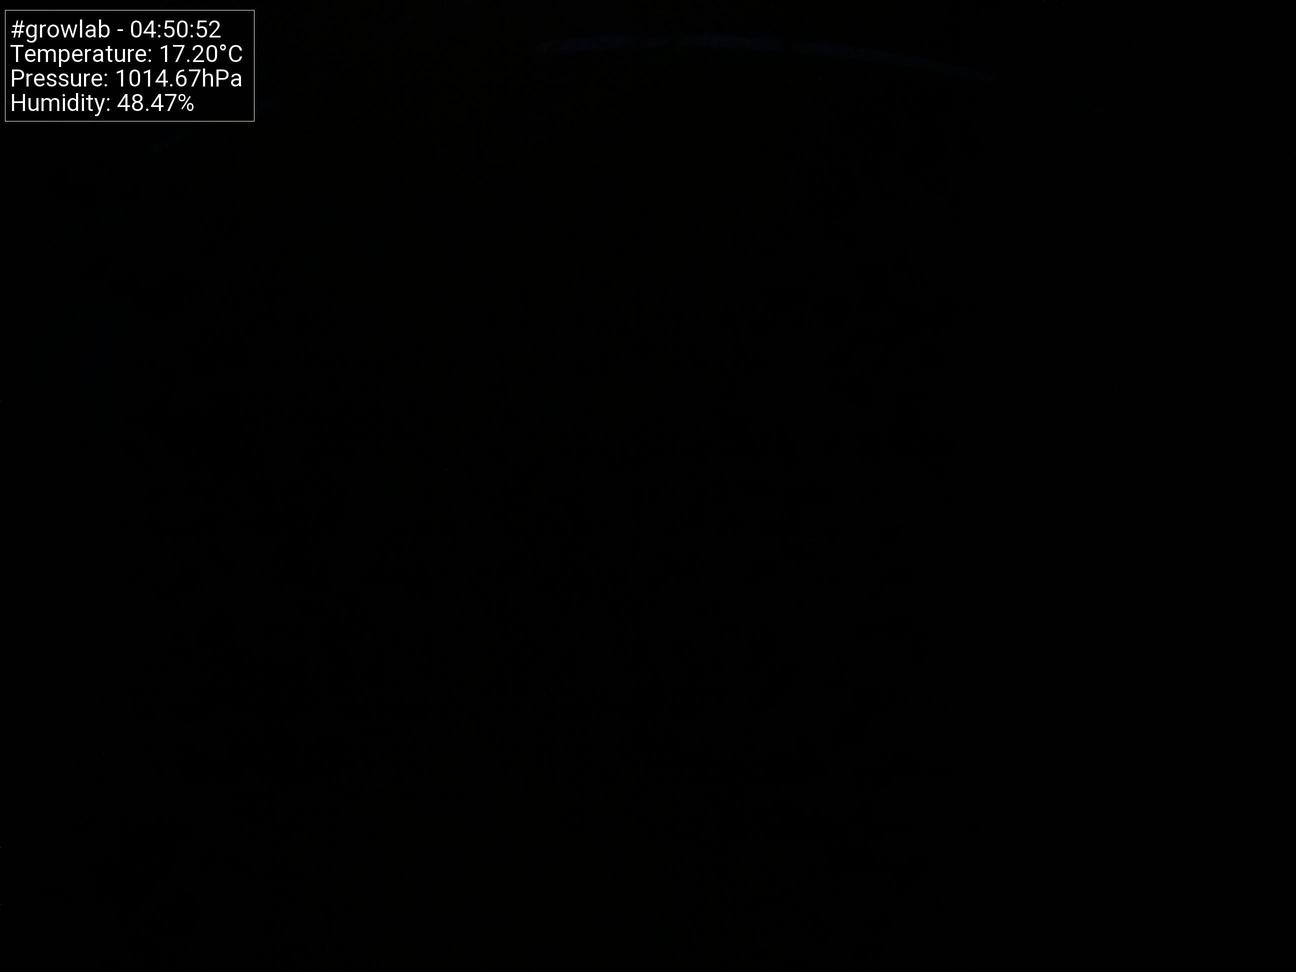
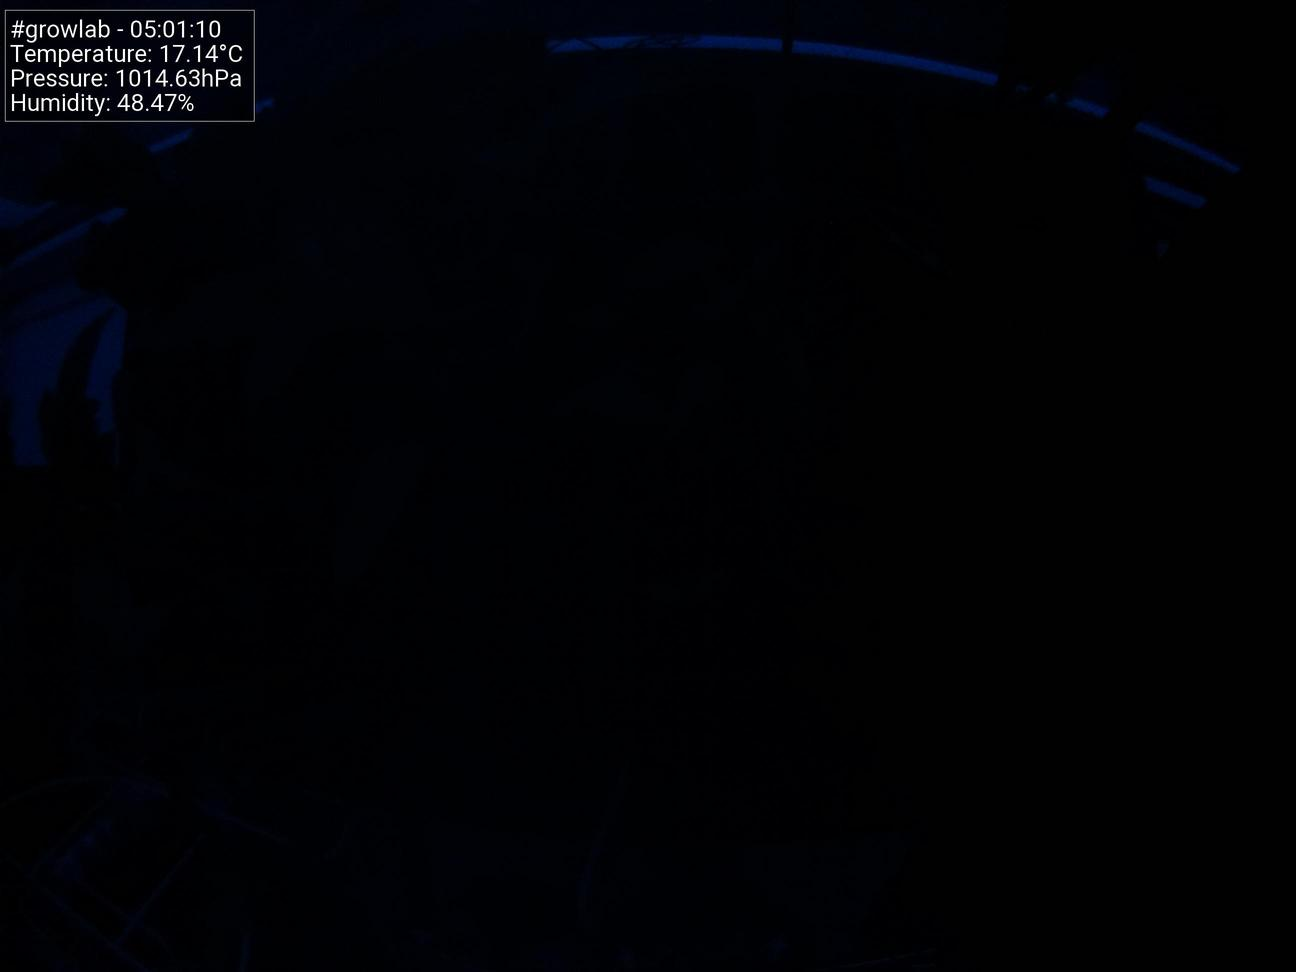
Update images at Fri 30 Apr 05:01:20 BST 2021

diff --git a/docs/index.html b/docs/index.html
@@ -38,11 +38,11 @@
                     <tbody>
                         <tr>
                             <td>Time</td>
-                            <td>04:50:52</td>
+                            <td>05:01:10</td>
                         </tr>
                         <tr>
                             <td>Temperature</td>
-                            <td>17.20°C</td>
+                            <td>17.14°C</td>
                         </tr>
                         <tr>
                             <td>Humidity</td>
@@ -50,7 +50,7 @@
                         </tr>
                         <tr>
                             <td>Pressure</td>
-                            <td>1014.67hPa</td>
+                            <td>1014.63hPa</td>
                         </tr>
                     </tbody>
                 </table>
@@ -58,7 +58,7 @@
 
                 <h5>Latest image</h5>
 		<div style="width: 85%;">
-	                <img class="figure-img img-fluid rounded" src="./preview.jpg?uid=1619754662.3185236">
+	                <img class="figure-img img-fluid rounded" src="./preview.jpg?uid=1619755280.5412705">
 		</div>
             </div>
         </div>
